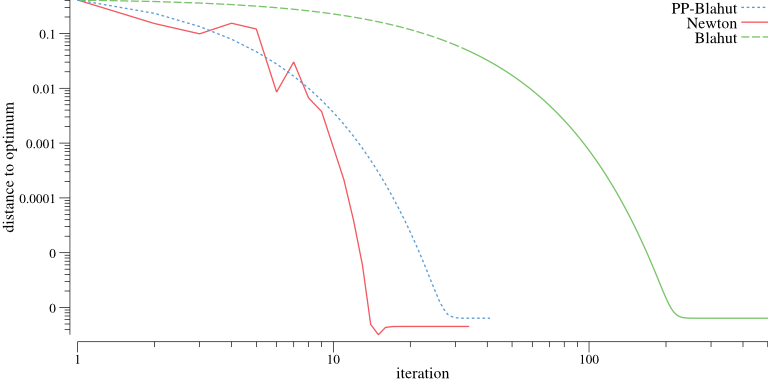
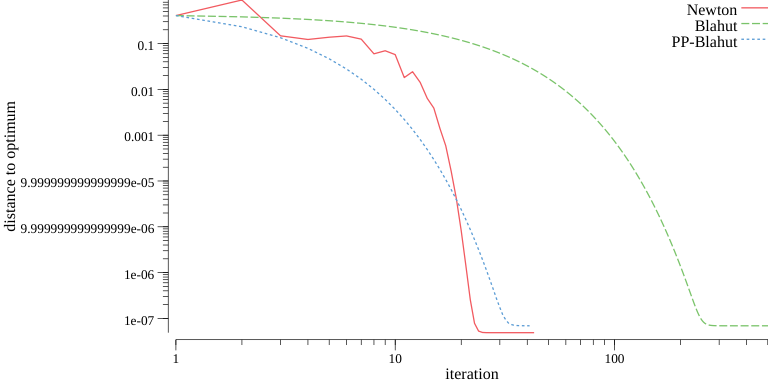
2020/08/14-13:04:09 (Linux cray unknown)

diff --git a/demo/channel/channel.go b/demo/channel/channel.go
@@ -162,6 +162,8 @@ func objective_f(channel ConstMatrix, variables ConstVector) MagicScalar {
       }
     }
   }
+  // take logarithm for numerical reasons
+  result.Log(result)
   // negate objective function to compute its maximum
   result.Neg(result)
   // add constraint
@@ -187,7 +189,7 @@ func channel_capacity(channel [][]float64, pxstar, px0 []float64) ([][]float64) 
   // copy variables for automatic differentation
   channelm := NewDenseFloat64Matrix(flatten(channel), n, m)
   // add 1 lagrange multipliers
-  px0m     := NewDenseFloat64Vector(append(px0, 1.0))
+  px0m     := NewDenseFloat64Vector(append(px0, 2.5))
 
   // keep track of the path of an algorithm
   trace := make([][]float64, 3)
@@ -229,15 +231,11 @@ func channel_capacity(channel [][]float64, pxstar, px0 []float64) ([][]float64) 
 
 func main() {
 
-  // channel := [][]float64{
-  //   {2.0/3.0, 1.0/3.0,     0.0},
-  //   {1.0/3.0, 1.0/3.0, 1.0/3.0},
-  //   {    0.0, 1.0/3.0, 2.0/3.0} }
   channel := [][]float64{
     {0.60, 0.30, 0.10},
     {0.70, 0.10, 0.20},
     {0.50, 0.05, 0.45} }
-  pxstar  := []float64{0.501735, 0.0, 0.498265}
+  pxstar  := []float64{5.017355e-01, 0.0, 4.982645e-01}
 
   // initial value
   px0 := []float64{1.0/3.0, 1.0/3.0, 1.0/3.0}
